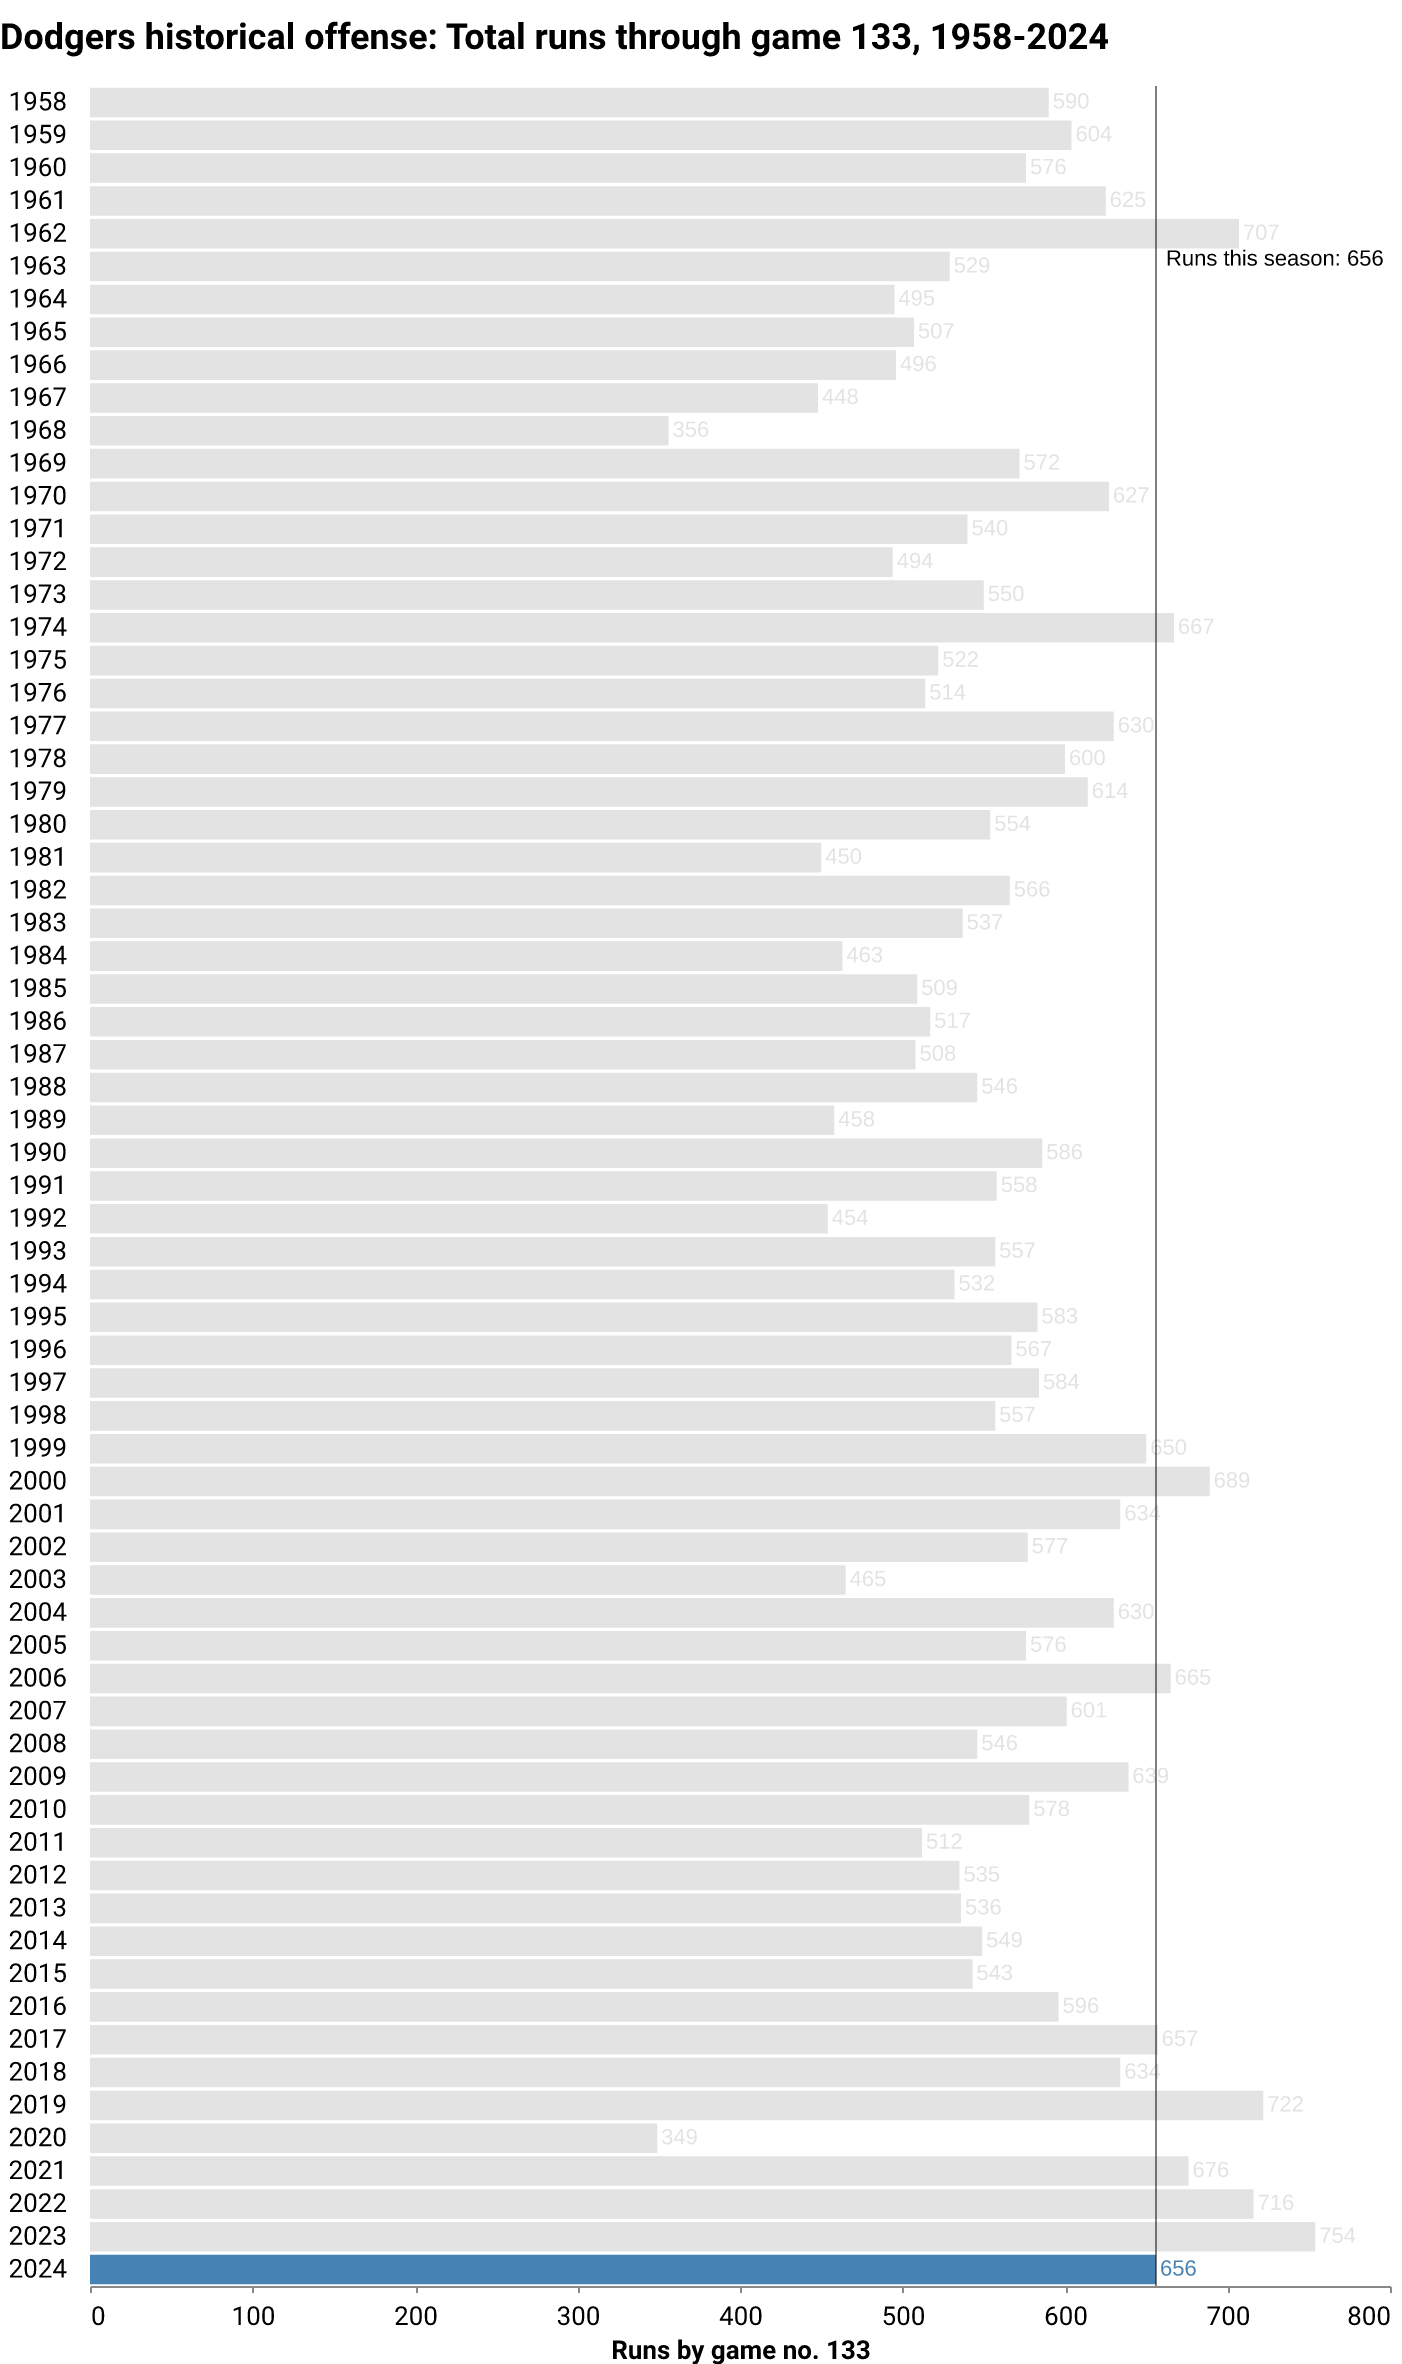
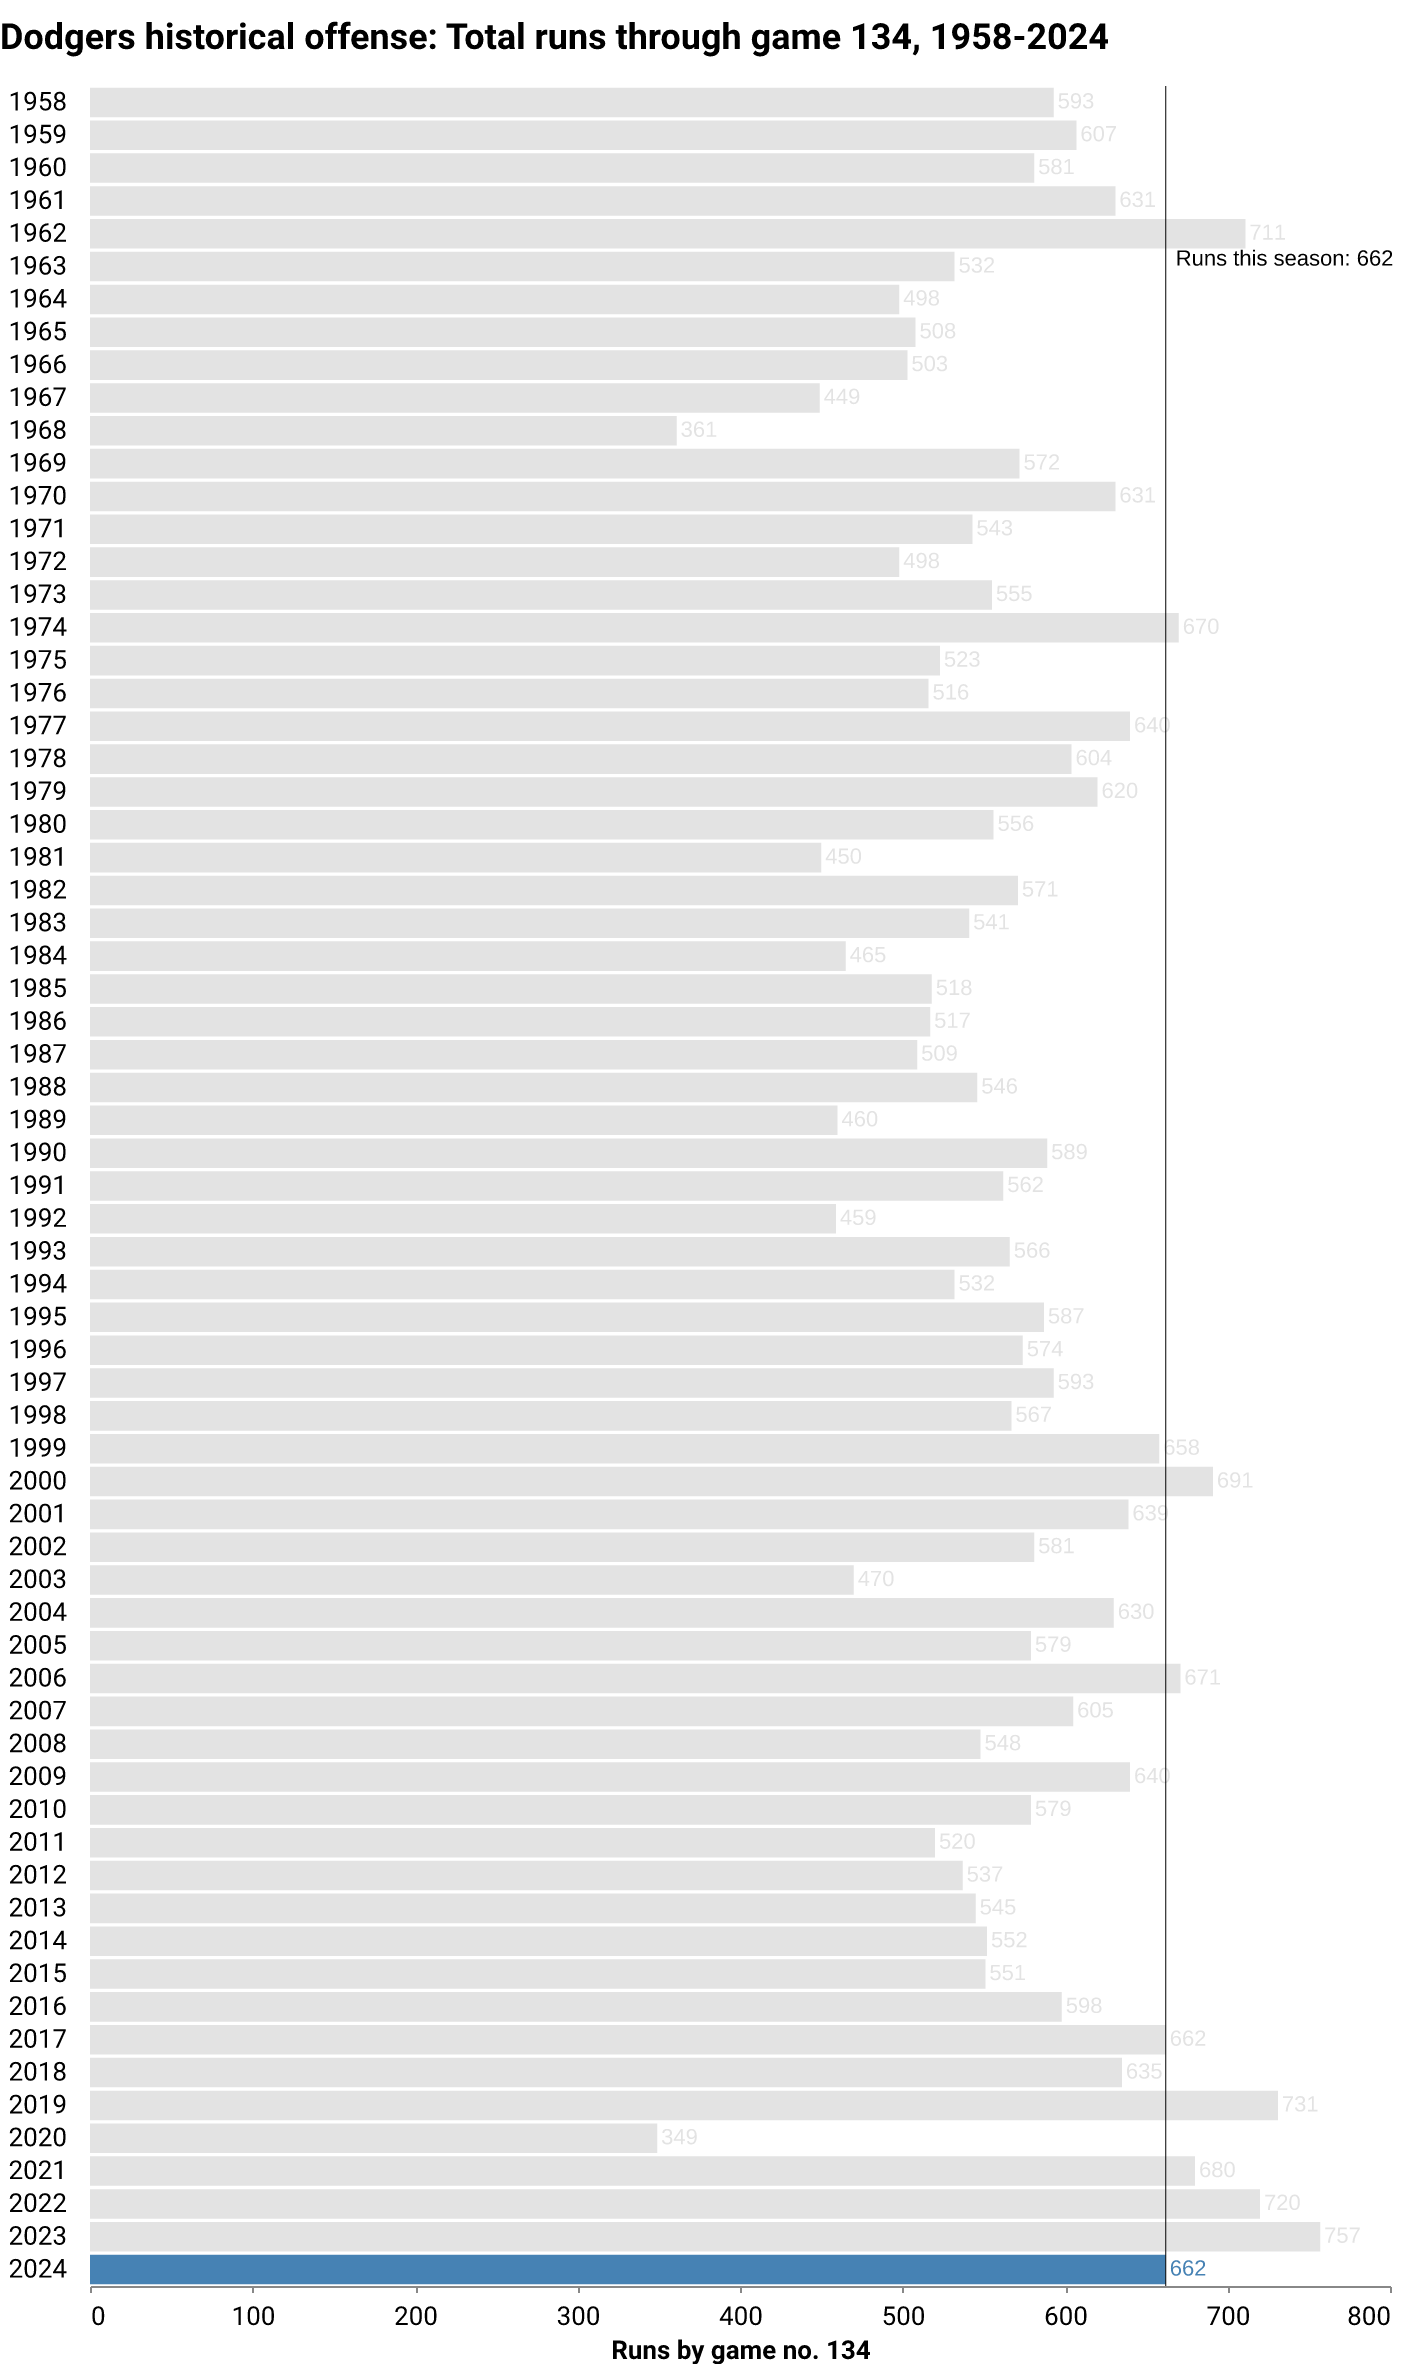
deploy: abb14cda807c515a51505837a6343380d16ae2f3

diff --git a/index.html b/index.html
@@ -184,7 +184,7 @@
 <p class="subhead">
     
     
-    <span class="highlight">LOS ANGELES</span> <span class="updated">(August 30)</span> — After <span class="highlight">133</span> games this season, the Dodgers are in <span class="highlight">1st</span> place in the National League West division. The team has compiled a <span class="highlight">79-54</span> record, winning <span class="highlight">59%</span> of its games so far. The last game was a <span class="highlight">6-4</span> home <span class="highlight">win</span> against the Baltimore Orioles in front of <span class="highlight">53,290</span> fans. They've won <span class="highlight">7 of the last 10</span>.
+    <span class="highlight">LOS ANGELES</span> <span class="updated">(August 30)</span> — After <span class="highlight">134</span> games this season, the Dodgers are in <span class="highlight">1st</span> place in the National League West division. The team has compiled a <span class="highlight">80-54</span> record, winning <span class="highlight">60%</span> of its games so far. The last game was a <span class="highlight">6-3</span> home <span class="highlight">win</span> against the Baltimore Orioles in front of <span class="highlight">53,203</span> fans. They've won <span class="highlight">8 of the last 10</span>.
 </p>
 </div>
 
@@ -206,7 +206,7 @@
             Wins
           </div>
           <div class="card-body">
-            <p class="card-text">79</p>
+            <p class="card-text">80</p>
           </div>
           <div class="card-footer text-muted">
         This point last season: 83
@@ -225,7 +225,7 @@
             <p class="card-text">54</p>
           </div>
           <div class="card-footer text-muted">
-        This point last season: 50
+        This point last season: 51
           </div>
         </div>
       </div>
@@ -238,10 +238,10 @@
             Record
           </div>
           <div class="card-body">
-            <p class="card-text">79-54</p>
+            <p class="card-text">80-54</p>
           </div>
           <div class="card-footer text-muted">
-        This point last season: 83-50
+        This point last season: 83-51
           </div>
         </div>
       </div>
@@ -254,7 +254,7 @@
             Win percentage
           </div>
           <div class="card-body">
-            <p class="card-text">59%</p>
+            <p class="card-text">60%</p>
           </div>
           <div class="card-footer text-muted">
         This point last season: 62%
@@ -270,7 +270,7 @@
             Games up/back
           </div>
           <div class="card-body">
-            <p class="card-text">3.0</p>
+            <p class="card-text">4.0</p>
           </div>
           <div class="card-footer text-muted">
         Division rank: 1
@@ -286,10 +286,10 @@
             Avg. home attendance
           </div>
           <div class="card-body">
-            <p class="card-text">48,405</p>
+            <p class="card-text">48,475</p>
           </div>
           <div class="card-footer text-muted">
-        Home games this season: 68
+        Home games this season: 69
           </div>
         </div>
       </div>
@@ -302,7 +302,7 @@
             Runs
           </div>
           <div class="card-body">
-            <p class="card-text">656</p>
+            <p class="card-text">662</p>
           </div>
           <div class="card-footer text-muted">
         League rank: 2
@@ -318,10 +318,10 @@
             Runs against
           </div>
           <div class="card-body">
-            <p class="card-text">539</p>
+            <p class="card-text">542</p>
           </div>
           <div class="card-footer text-muted">
-        This point last season: 585
+        This point last season: 591
           </div>
         </div>
       </div>
@@ -334,10 +334,10 @@
             Run differential
           </div>
           <div class="card-body">
-            <p class="card-text">117</p>
+            <p class="card-text">120</p>
           </div>
           <div class="card-footer text-muted">
-        This point last season: 169
+        This point last season: 166
           </div>
         </div>
       </div>
@@ -408,7 +408,7 @@
             Batting average
           </div>
           <div class="card-body">
-            <p class="card-text">.251</p>
+            <p class="card-text">.252</p>
           </div>
           <div class="card-footer text-muted">
         Last decade average: .253
@@ -440,7 +440,7 @@
             Home runs/game
           </div>
           <div class="card-body">
-            <p class="card-text">1.36</p>
+            <p class="card-text">1.35</p>
           </div>
           <div class="card-footer text-muted">
         Last decade average: 1.36
@@ -456,7 +456,7 @@
             On-base percentage
           </div>
           <div class="card-body">
-            <p class="card-text">.328</p>
+            <p class="card-text">.329</p>
           </div>
           <div class="card-footer text-muted">
         Last decade average: .332
@@ -472,7 +472,7 @@
             Stolen bases
           </div>
           <div class="card-body">
-            <p class="card-text">96</p>
+            <p class="card-text">98</p>
           </div>
           <div class="card-footer text-muted">
         League rank: 8
@@ -488,7 +488,7 @@
             Stolen bases/game
           </div>
           <div class="card-body">
-            <p class="card-text">0.72</p>
+            <p class="card-text">0.73</p>
           </div>
           <div class="card-footer text-muted">
         Rate all last season: 0.65
@@ -598,10 +598,10 @@
             Strikeouts
           </div>
           <div class="card-body">
-            <p class="card-text">1140</p>
+            <p class="card-text">1149</p>
           </div>
           <div class="card-footer text-muted">
-        League rank: 7
+        League rank: 6
           </div>
         </div>
       </div>
@@ -614,10 +614,10 @@
             Walks
           </div>
           <div class="card-body">
-            <p class="card-text">400</p>
+            <p class="card-text">405</p>
           </div>
           <div class="card-footer text-muted">
-        League rank: 9
+        League rank: 10
           </div>
         </div>
       </div>
@@ -630,7 +630,7 @@
             ERA
           </div>
           <div class="card-body">
-            <p class="card-text">3.72</p>
+            <p class="card-text">3.71</p>
           </div>
           <div class="card-footer text-muted">
         League rank: 4
@@ -708,7 +708,7 @@
     </div>
 </div>
 
-  <p class="dated">Notes: Last updated August 30, 2024, 12:03 AM PT. More <a href="https://github.com/stiles/dodgers/blob/main/README.md">about the data</a>.</p>
+  <p class="dated">Notes: Last updated August 30, 2024, 4:03 AM PT. More <a href="https://github.com/stiles/dodgers/blob/main/README.md">about the data</a>.</p>
   
 </div>
 
